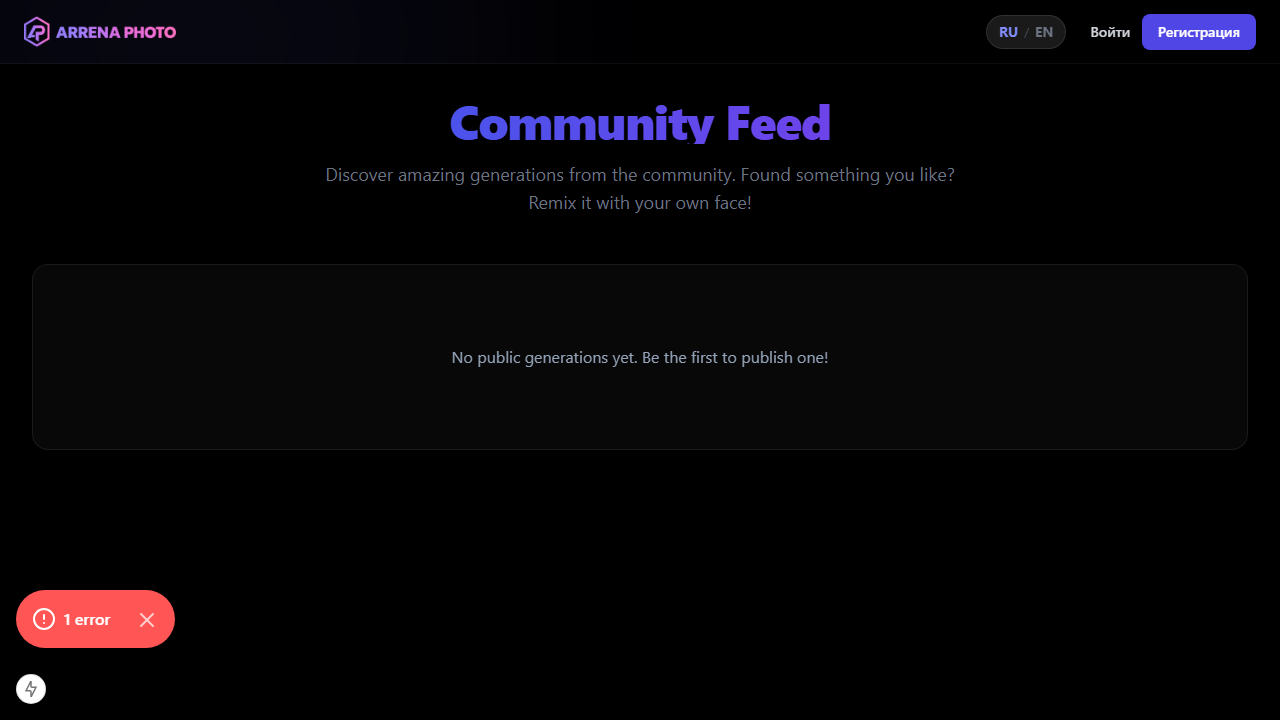
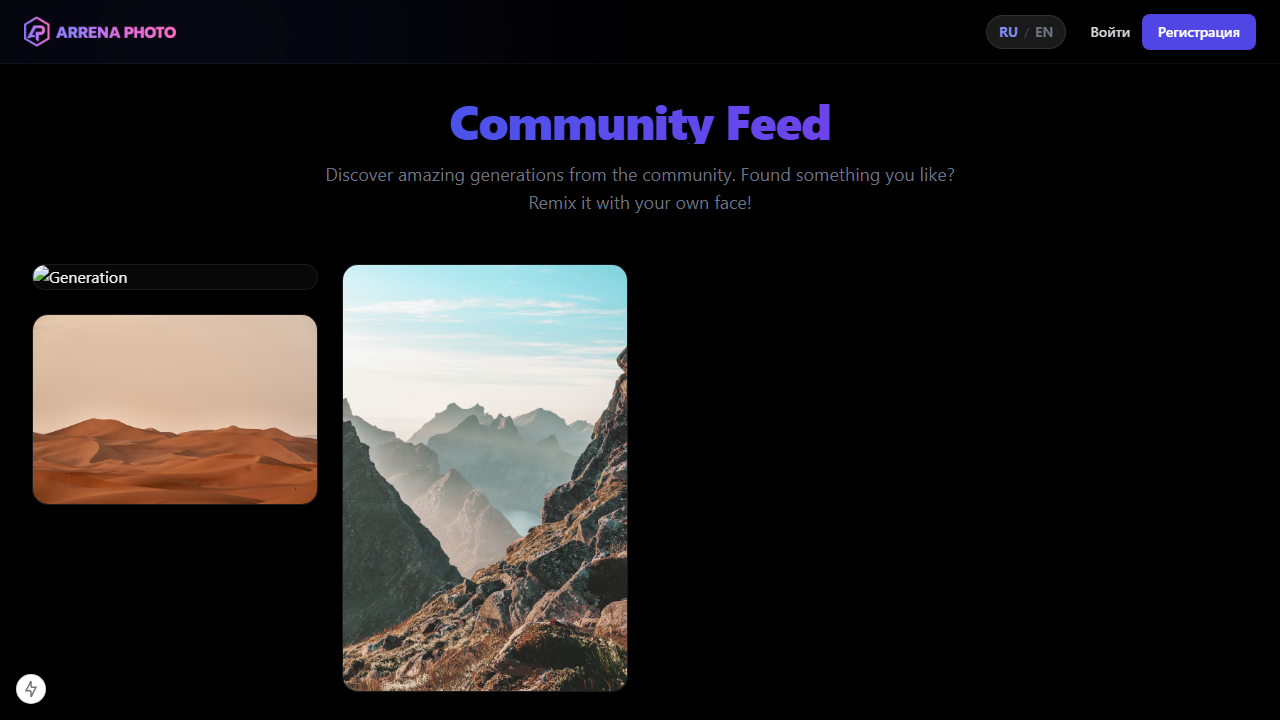
fix(nav): add feed link to sidebar navigation

Changed region(s): [[0.0, 0.3667, 0.6562, 0.9778], [0.0, 0.7944, 0.1562, 0.9167], [0.0, 0.3667, 0.0938, 0.3972]]

diff --git a/apps/backend-api/src/generations/generations.controller.ts b/apps/backend-api/src/generations/generations.controller.ts
@@ -30,17 +30,17 @@ export class GenerationsController {
     return this.generationsService.getHistory(req.user.id);
   }
 
+  @Get('feed/public')
+  @ApiOperation({ summary: 'Get public generations feed' })
+  getFeed(@Req() req: any) {
+    return this.generationsService.getFeed();
+  }
+
   @Get(':id')
   @UseGuards(JwtAuthGuard)
   @ApiOperation({ summary: 'Get generation status and result' })
   getStatus(@Req() req: any, @Param('id') id: string) {
     return this.generationsService.getStatus(id, req.user.id);
-  }
-
-  @Get('feed/public')
-  @ApiOperation({ summary: 'Get public generations feed' })
-  getFeed(@Req() req: any) {
-    return this.generationsService.getFeed();
   }
 
   @Post(':id/publish')

diff --git a/apps/backend-api/src/generations/generations.service.ts b/apps/backend-api/src/generations/generations.service.ts
@@ -197,7 +197,7 @@ export class GenerationsService {
       take: 50,
       include: {
         result: true,
-        user: { select: { name: true, image: true } },
+        user: { select: { name: true, avatarUrl: true } },
         template: { select: { name: true } }
       }
     });

diff --git a/apps/frontend/components/layout/Sidebar.tsx b/apps/frontend/components/layout/Sidebar.tsx
@@ -17,6 +17,7 @@ export function Sidebar() {
 
   const MAIN_LINKS = [
     { href: '/', label: t('nav.home'), icon: '🏠' },
+    { href: '/feed', label: t('nav.feed'), icon: '🌍' },
     { href: '/generate', label: t('nav.generator'), icon: '✨' },
     { href: '/templates', label: t('nav.templates'), icon: '📁' },
     { href: '/marketplace', label: t('nav.marketplace'), icon: '🛒' },

diff --git a/apps/frontend/lib/i18n/en.ts b/apps/frontend/lib/i18n/en.ts
@@ -2,6 +2,7 @@
 const en: Record<string, string> = {
   // === Navigation (Sidebar) ===
   'nav.home': 'Home',
+  'nav.feed': 'Feed',
   'nav.generator': 'Generator',
   'nav.templates': 'Templates',
   'nav.marketplace': 'Marketplace',

diff --git a/apps/frontend/lib/i18n/ru.ts b/apps/frontend/lib/i18n/ru.ts
@@ -2,6 +2,7 @@
 const ru: Record<string, string> = {
   // === Navigation (Sidebar) ===
   'nav.home': 'Главная',
+  'nav.feed': 'Лента',
   'nav.generator': 'Генератор',
   'nav.templates': 'Шаблоны',
   'nav.marketplace': 'Маркетплейс',